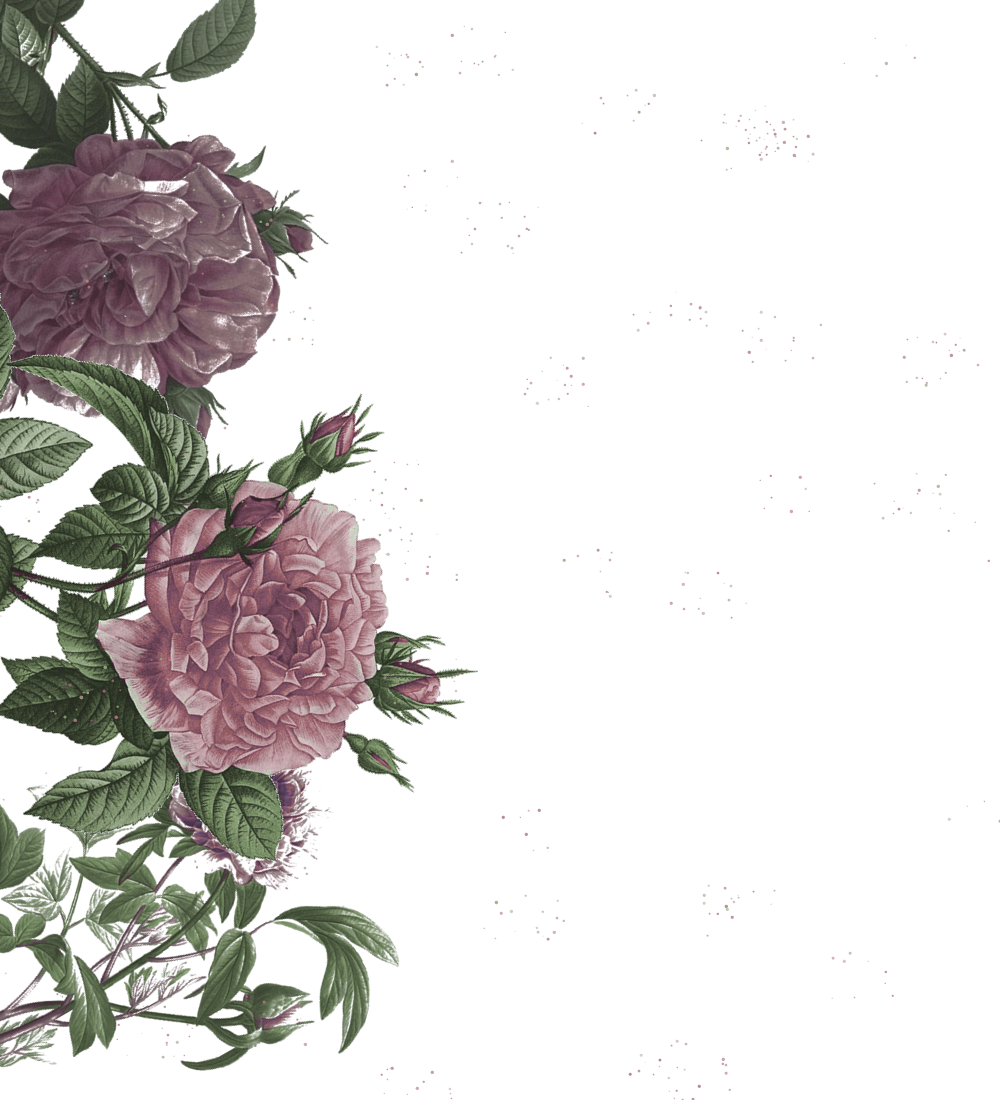
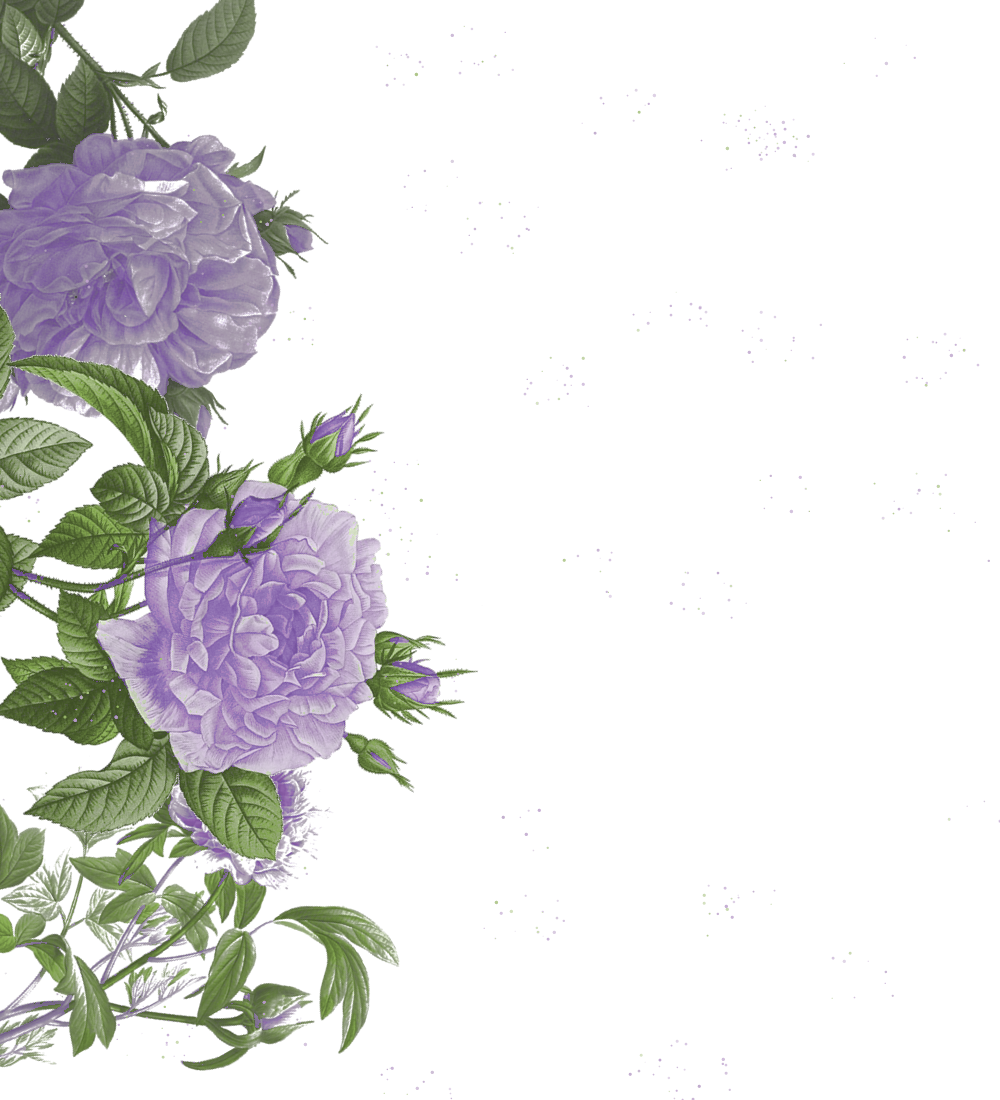
Paleta gamer girly (lima e lilas neon), flores so na capa e cordao de jiboia com fio de fada

Changed region(s): [[0.0, 0.0618, 0.465, 0.9891], [0.0, 0.0, 0.062, 0.0618], [0.0, 0.7418, 0.031, 0.8036]]

diff --git a/index.html b/index.html
@@ -19,24 +19,26 @@
        rosa milk, verde sálvia e rosa neon
        ========================================================== */
     :root {
-      /* Paleta: pink elétrico, lilás envelhecido, verde botânico, branco e preto. Fundo todo branco. */
-      --fundo: #f6f3f1;            /* branco quente (fundo da página) */
-      --branco: #f6f3f1;
+      /* Paleta gamer girly: branco, verde lima pastel aceso, lilás neon e preto */
+      --fundo: #f8f7fb;            /* branco levemente lilás */
+      --branco: #f8f7fb;
       --fundo-2: rgba(255, 255, 255, .6);
       --superficie: #ffffff;       /* cards */
-      --superficie-2: #efe9ec;
-      --texto: #141214;            /* preto: texto principal */
-      --texto-suave: #5a525d;      /* texto de apoio */
-      --escuro: #141214;
-      --milk: #6f5a78;             /* lilás envelhecido (tom escuro, legível no branco) */
-      --milk-forte: #a68eae;
-      --neon: #ff2d95;             /* pink elétrico: botões, brilho e detalhes */
-      --neon-texto: #d1006b;       /* pink elétrico para TEXTO (contraste aprovado no branco) */
-      --brilho: 0 0 10px rgba(255, 45, 149, .35), 0 0 24px rgba(255, 45, 149, .22);
-      --salvia: #4b6844;           /* verde botânico para textos */
-      --salvia-linha: #8aa37f;     /* verde botânico para linhas */
-      --salvia-fundo: rgba(95, 124, 86, .1);
-      --borda: rgba(20, 18, 20, .12);
+      --superficie-2: #f0ebf8;
+      --texto: #17141c;            /* preto: texto principal */
+      --texto-suave: #5b5566;      /* texto de apoio */
+      --escuro: #17141c;
+      --milk: #6a35c9;             /* lilás (tom escuro, legível no branco): números e destaques */
+      --milk-forte: #b57cff;
+      --neon: #b57cff;             /* lilás neon: botões, brilho e detalhes */
+      --neon-texto: #7d3ddb;       /* lilás neon para TEXTO no branco */
+      --brilho: 0 0 10px rgba(181, 124, 255, .6), 0 0 26px rgba(181, 124, 255, .38);
+      --salvia: #4e7a1c;           /* verde lima escuro, legível no branco */
+      --salvia-linha: #b8e86a;     /* verde lima aceso: linhas */
+      --salvia-fundo: rgba(198, 243, 107, .2);
+      --verde-neon: #c6f36b;       /* verde lima das luzes */
+      --luz: #ffd76a;              /* luzinhas do fio de fada */
+      --borda: rgba(23, 20, 28, .1);
       --titulo: "Anton", "Impact", "Arial Narrow", sans-serif;
       --corpo: "Archivo", system-ui, -apple-system, "Segoe UI", sans-serif;
       --largura: 1240px;
@@ -63,7 +65,7 @@
     p { margin: 0; }
     ul { margin: 0; padding: 0; list-style: none; }
     button, input, textarea { font: inherit; color: inherit; }
-    ::selection { background: #f6c6dc; color: var(--escuro); }
+    ::selection { background: #e3d2ff; color: var(--escuro); }
 
     :focus-visible { outline: 2px solid var(--neon-texto); outline-offset: 3px; }
 
@@ -92,26 +94,13 @@
     .capa .selo-micro { color: var(--neon-texto); font-weight: 700; text-shadow: var(--brilho); }
 
 
-    /* Guirlandas: uma pintura contínua de flores que desce pelas laterais da página inteira,
-       sem começo nem fim (a imagem foi montada para se repetir sem emenda) */
-    .guirlanda { position: absolute; inset: 0; z-index: -1; pointer-events: none; overflow: hidden; }
-    .guirlanda span {
-      position: absolute; top: 0; bottom: 0; width: min(30vw, 470px);
-      background-repeat: repeat-y; background-size: 100% auto; opacity: .3;
-    }
-    .guirlanda .lado-esq {
-      left: -8px; background-image: url("decoracao/guirlanda-esq.png");
-      -webkit-mask-image: linear-gradient(to right, #000 45%, transparent); mask-image: linear-gradient(to right, #000 45%, transparent);
-      animation: balanco-esq 10s ease-in-out infinite;
-    }
-    .guirlanda .lado-dir {
-      right: -8px; background-image: url("decoracao/guirlanda-dir.png"); background-position: right 0 top 600px;
-      -webkit-mask-image: linear-gradient(to left, #000 45%, transparent); mask-image: linear-gradient(to left, #000 45%, transparent);
-      animation: balanco-dir 12s ease-in-out -4s infinite;
-    }
-    @keyframes balanco-esq { 0%, 100% { transform: translateX(0); } 50% { transform: translateX(7px); } }
-    @keyframes balanco-dir { 0%, 100% { transform: translateX(0); } 50% { transform: translateX(-7px); } }
-
+    /* Cordão do lado direito: fio fininho com folhinhas de jiboia e luzinhas de fada piscando */
+    .cordao { position: absolute; top: 0; right: 2px; width: 64px; z-index: 5; pointer-events: none; }
+    .cordao svg { display: block; overflow: visible; }
+    .cordao .folha-g { transform-box: fill-box; transform-origin: 0% 50%; animation: folha-balanca 7s ease-in-out infinite; }
+    .cordao .luz { animation: piscar 3s ease-in-out infinite; }
+    @keyframes folha-balanca { 0%, 100% { transform: rotate(0deg); } 50% { transform: rotate(5deg); } }
+    @keyframes piscar { 0%, 100% { opacity: .3; } 45% { opacity: 1; } 60% { opacity: .85; } }
     /* A brisa: balanço lento e bem pequeno, ancorado no canto de onde as flores "nascem" */    @keyframes brisa {
       0%, 100% { transform: rotate(0deg) translate(0, 0); }
       30% { transform: rotate(.9deg) translate(2px, 1px); }
@@ -125,7 +114,6 @@
 
     @media (max-width: 820px) {
       .capa-buque { width: 96vw; opacity: .32; }
-      .guirlanda span { width: 38vw; opacity: .2; }
     }
 
     .pular {
@@ -167,7 +155,7 @@
     .btn-vermelho { background: var(--neon); border-color: var(--neon); color: var(--escuro); }
     .btn-vermelho:hover, .btn-vermelho:focus-visible {
       background: var(--btn-hover-bg, #141214); border-color: var(--btn-hover-bg, #141214); color: var(--btn-hover-cor, #fff);
-      box-shadow: 0 0 30px rgba(255, 45, 149, .7);
+      box-shadow: 0 0 30px rgba(181, 124, 255, .7);
     }
     .btn-cinza { background: transparent; color: var(--texto); border-color: var(--texto); }
     .btn-cinza:hover, .btn-cinza:focus-visible { color: var(--neon-texto); border-color: var(--neon); text-shadow: var(--brilho); }
@@ -182,13 +170,14 @@
     /* Barra superior em verde botânico */
     .topo {
       position: fixed; inset: 0 0 auto 0; z-index: 100; height: var(--header-h);
-      --texto: #ffffff; --neon-texto: #ffd0e6; --milk: #f1e4f5;
-      --brilho: 0 0 10px rgba(255, 45, 149, .9), 0 0 24px rgba(255, 45, 149, .55);
-      background: rgba(75, 104, 68, .94);
+      --texto: #17141c; --neon-texto: #6a2fc4; --milk: #6a2fc4;
+      --brilho: 0 0 10px rgba(181, 124, 255, .9), 0 0 24px rgba(181, 124, 255, .55);
+      background: linear-gradient(90deg, rgba(222, 248, 172, .95), rgba(205, 244, 140, .95));
+      box-shadow: 0 4px 30px rgba(198, 243, 107, .45);
       backdrop-filter: blur(12px); -webkit-backdrop-filter: blur(12px);
       transition: background-color .3s ease, box-shadow .3s ease;
     }
-    .topo.rolado { background-color: rgba(64, 90, 58, .98); box-shadow: 0 6px 24px rgba(20, 18, 20, .18); }
+    .topo.rolado { box-shadow: 0 6px 34px rgba(198, 243, 107, .6), 0 1px 0 rgba(23, 20, 28, .08); }
     .topo .container { height: 100%; display: flex; align-items: center; justify-content: space-between; gap: 16px; }
     .logo {
       font-family: var(--titulo); font-size: 1.55rem; font-weight: 500; letter-spacing: .06em;
@@ -219,15 +208,18 @@
     /* Capa: preto translúcido, com cores próprias para o texto claro */
     .capa {
       --texto: #f6f3f1; --texto-suave: #d6ced3; --borda: rgba(255, 255, 255, .16);
-      --milk: #d2bfd8; --neon-texto: #ff4fa3; --salvia: #a9bf9c;
-      --brilho: 0 0 10px rgba(255, 45, 149, .75), 0 0 28px rgba(255, 45, 149, .5);
+      --milk: #d9c2ff; --neon-texto: #d2a6ff; --salvia: #c6f36b;
+      --brilho: 0 0 10px rgba(181, 124, 255, .75), 0 0 28px rgba(181, 124, 255, .5);
       --btn-hover-bg: #ffffff; --btn-hover-cor: #141214;
       --lilas-neon: #c77dff; --lilas-brilho: 0 0 8px rgba(199, 125, 255, .9), 0 0 22px rgba(199, 125, 255, .6), 0 0 44px rgba(199, 125, 255, .35);
       color: var(--texto);
       position: relative; min-height: 100vh; min-height: 100svh;
       display: flex; flex-direction: column; justify-content: flex-end;
       padding-top: calc(var(--header-h) + 36px);
-      background: rgba(14, 12, 14, .86);
+      background:
+        radial-gradient(ellipse 55% 60% at 80% 30%, rgba(181, 124, 255, .26), transparent 70%),
+        radial-gradient(ellipse 45% 45% at 6% 100%, rgba(198, 243, 107, .14), transparent 70%),
+        rgba(20, 16, 26, .93);
       overflow: hidden;
     }
     .capa-grade { display: block; padding-bottom: clamp(40px, 6vw, 72px); }
@@ -301,8 +293,8 @@
       position: absolute; left: 0; top: 0; bottom: 0; z-index: 2;
       display: flex; align-items: center; padding: 0 26px 0 var(--gutter);
       background: linear-gradient(90deg, #0b0a0d 72%, transparent);
-      font-size: .68rem; font-weight: 700; letter-spacing: .26em; text-transform: uppercase; color: var(--neon-texto);
-      text-shadow: var(--brilho);
+      font-size: .68rem; font-weight: 700; letter-spacing: .26em; text-transform: uppercase; color: var(--verde-neon);
+      text-shadow: 0 0 8px rgba(198, 243, 107, .9), 0 0 22px rgba(198, 243, 107, .5);
     }
     .faixa-trilho { display: flex; width: max-content; animation: deslizar 60s linear infinite; }
     .faixa-marcas:hover .faixa-trilho { animation-play-state: paused; }
@@ -313,8 +305,9 @@
       color: var(--lilas-neon); text-shadow: var(--lilas-brilho);
       display: flex; align-items: center; gap: 26px; transition: color .3s ease, text-shadow .3s ease;
     }
-    .faixa-trilho li:hover { color: #ffffff; text-shadow: 0 0 10px rgba(255, 45, 149, 1), 0 0 30px rgba(255, 45, 149, .7); }
-    .faixa-trilho li::after { content: ""; width: 6px; height: 6px; background: var(--neon); box-shadow: 0 0 10px var(--neon); transform: rotate(45deg); }    @keyframes deslizar { to { transform: translateX(-50%); } }
+    .faixa-trilho li:hover { color: #ffffff; text-shadow: 0 0 10px rgba(181, 124, 255, 1), 0 0 30px rgba(181, 124, 255, .8), 0 0 50px rgba(181, 124, 255, .5); }
+    .faixa-trilho li::after { content: ""; width: 6px; height: 6px; background: var(--verde-neon); box-shadow: 0 0 10px var(--verde-neon); transform: rotate(45deg); }
+    @keyframes deslizar { to { transform: translateX(-50%); } }
 
     /* ==========================================================
        2. SOBRE MIM
@@ -325,7 +318,7 @@
       --texto: #141214; --texto-suave: #5a525d; --borda: rgba(20, 18, 20, .12);
       --superficie: #ffffff; --superficie-2: #efe9ec;
       --milk: #6f5a78; --milk-forte: #8a7593;
-      --neon-texto: #d1006b; --brilho: 0 0 10px rgba(255, 45, 149, .35), 0 0 22px rgba(255, 45, 149, .2);
+      --neon-texto: #7d3ddb; --brilho: 0 0 10px rgba(181, 124, 255, .6), 0 0 26px rgba(181, 124, 255, .38);
       --salvia: #4b6844; --salvia-linha: #8aa37f; --salvia-fundo: rgba(95, 124, 86, .1);
       color: var(--texto);
     }
@@ -356,7 +349,7 @@
     }
     .polaroid:hover .polaroid-foto {
       outline-color: var(--neon); outline-offset: 20px;
-      box-shadow: 0 30px 60px rgba(20, 18, 20, .22), 0 0 34px rgba(255, 45, 149, .25);
+      box-shadow: 0 30px 60px rgba(20, 18, 20, .22), 0 0 34px rgba(181, 124, 255, .25);
     }
     .polaroid.mexendo .polaroid-foto { transition: transform .12s linear, outline-offset .6s ease, outline-color .6s ease, box-shadow .6s ease; }
     .polaroid:hover .polaroid-foto .midia { transform: scale(1.07); filter: saturate(1.08) contrast(1.03); }
@@ -397,7 +390,7 @@
     }
     .destaque:hover, .destaque:focus-visible {
       transform: translateY(-6px); border-color: var(--neon);
-      box-shadow: 0 0 0 1px var(--neon), 0 24px 50px rgba(255, 45, 149, .22);
+      box-shadow: 0 0 0 1px var(--neon), 0 24px 50px rgba(181, 124, 255, .22);
     }
     .destaque-capa { aspect-ratio: 9 / 16; position: relative; overflow: hidden; }
     .destaque-capa .midia { transition: transform .7s ease; }
@@ -422,7 +415,7 @@
     .play svg { width: 26px; height: 26px; margin-left: 4px; fill: var(--escuro); transition: fill .3s ease; }
     .destaque:hover .play, .destaque:focus-visible .play,
     .trabalho:hover .play-mini, .trabalho:focus-visible .play-mini {
-      background: var(--neon); border-color: var(--neon); transform: scale(1.08); box-shadow: 0 0 26px rgba(255, 45, 149, .7);
+      background: var(--neon); border-color: var(--neon); transform: scale(1.08); box-shadow: 0 0 26px rgba(181, 124, 255, .7);
     }
     .destaque:hover .play svg, .destaque:focus-visible .play svg,
     .trabalho:hover .play-mini svg, .trabalho:focus-visible .play-mini svg { fill: #fff; }
@@ -454,7 +447,7 @@
     }
     .filtro:hover { border-color: var(--neon); color: var(--neon-texto); text-shadow: var(--brilho); }
     .filtro[aria-pressed="true"] { background: var(--texto); border-color: var(--texto); color: #fff; text-shadow: none; }
-    .filtro[aria-pressed="true"]:hover { background: var(--neon); border-color: var(--neon); color: #fff; box-shadow: 0 0 20px rgba(255,45,149,.5); }
+    .filtro[aria-pressed="true"]:hover { background: var(--neon); border-color: var(--neon); color: #fff; box-shadow: 0 0 20px rgba(181,124,255,.5); }
 
     .filtro-tts { display: inline-flex; align-items: center; gap: 7px; text-decoration: none; border-color: var(--milk); color: var(--milk); }
     .filtro-tts svg { width: 14px; height: 14px; fill: currentColor; }
@@ -483,7 +476,7 @@
       background: var(--superficie); color: var(--texto); cursor: pointer; display: grid; place-items: center;
       transition: background-color .3s ease, border-color .3s ease, color .3s ease, box-shadow .3s ease;
     }
-    .seta:hover { border-color: var(--neon); color: var(--neon-texto); box-shadow: 0 0 16px rgba(255,45,149,.45); }
+    .seta:hover { border-color: var(--neon); color: var(--neon-texto); box-shadow: 0 0 16px rgba(181,124,255,.45); }
     .seta svg { width: 18px; height: 18px; }
     .trilho {
       display: grid; grid-auto-flow: column; grid-auto-columns: clamp(176px, 22vw, 272px);
@@ -507,7 +500,7 @@
     }
     .trabalho:hover, .trabalho:focus-visible {
       transform: scale(1.09); z-index: 3;
-      box-shadow: 0 0 0 2px var(--neon), 0 18px 40px rgba(255, 45, 149, .32);
+      box-shadow: 0 0 0 2px var(--neon), 0 18px 40px rgba(181, 124, 255, .32);
     }
     .trabalho .midia { position: absolute; inset: 0; }
     .trabalho img.midia { object-position: 50% 30%; }
@@ -563,7 +556,7 @@
       background: transparent; color: var(--texto); font-size: 1.6rem; line-height: 1;
       transition: color .3s ease, border-color .3s ease, box-shadow .3s ease;
     }
-    .fechar-video:hover { color: var(--neon-texto); border-color: var(--neon); box-shadow: 0 0 16px rgba(255,45,149,.45); }
+    .fechar-video:hover { color: var(--neon-texto); border-color: var(--neon); box-shadow: 0 0 16px rgba(181,124,255,.45); }
     /* Player: a altura acompanha a tela, então o vídeo aparece inteiro sem rolar */
     .moldura-video {
       height: min(calc(100vh - 130px), 640px); aspect-ratio: 9 / 16; width: auto;
@@ -603,7 +596,7 @@
       display: block; font-family: var(--titulo); font-weight: 500; color: var(--milk);
       font-size: clamp(2.6rem, 5.5vw, 4.2rem); line-height: 1; transition: color .3s ease, text-shadow .3s ease;
     }
-    .contador:hover { transform: translateY(-8px) scale(1.06); background: var(--superficie); box-shadow: 0 22px 50px rgba(255, 45, 149, .2), 0 0 0 1px var(--neon); z-index: 2; }
+    .contador:hover { transform: translateY(-8px) scale(1.06); background: var(--superficie); box-shadow: 0 22px 50px rgba(181, 124, 255, .2), 0 0 0 1px var(--neon); z-index: 2; }
     .contador strong { transition: color .3s ease, text-shadow .3s ease, transform .4s cubic-bezier(.2, .7, .2, 1); }
     .contador:hover strong { color: var(--neon-texto); text-shadow: var(--brilho); transform: scale(1.12); }
     .contador span { display: block; margin-top: 12px; color: var(--texto-suave); font-weight: 500; font-size: .74rem; letter-spacing: .14em; text-transform: uppercase; }
@@ -611,7 +604,7 @@
     .subtitulo-bloco::after { content: ""; flex: 1; height: 1px; background: var(--borda); }
     .resultados { display: grid; grid-template-columns: repeat(3, minmax(0, 1fr)); gap: 18px; }
     .resultado { padding: 28px; background: var(--superficie); border-top: 2px solid var(--salvia-linha); transition: box-shadow .4s ease, border-color .4s ease, transform .4s cubic-bezier(.2, .7, .2, 1); }
-    .resultado:hover { border-color: var(--neon); box-shadow: 0 22px 50px rgba(255, 45, 149, .22); transform: translateY(-8px) scale(1.03); }
+    .resultado:hover { border-color: var(--neon); box-shadow: 0 22px 50px rgba(181, 124, 255, .22); transform: translateY(-8px) scale(1.03); }
     .resultado .nicho { font-size: .66rem; font-weight: 600; letter-spacing: .22em; text-transform: uppercase; color: var(--salvia); }
     .resultado strong { display: block; font-family: var(--titulo); font-weight: 500; font-size: 3rem; line-height: 1.1; margin-top: 10px; color: var(--milk); transition: color .3s ease, text-shadow .3s ease; }
     .resultado:hover strong { color: var(--neon-texto); text-shadow: var(--brilho); }
@@ -623,7 +616,7 @@
       padding: 30px 26px; display: flex; flex-direction: column; gap: 18px;
       transition: border-color .3s ease, box-shadow .3s ease;
     }
-    .depoimento:hover { border-color: var(--neon); box-shadow: 0 16px 40px rgba(255, 45, 149, .16); }
+    .depoimento:hover { border-color: var(--neon); box-shadow: 0 16px 40px rgba(181, 124, 255, .16); }
     .depoimento .aspas { font-family: var(--titulo); font-size: 4.4rem; line-height: .6; color: var(--salvia-linha); height: 28px; }
     .estrelas { color: var(--neon-texto); letter-spacing: 3px; font-size: .95rem; }
     .depoimento blockquote { margin: 0; color: var(--texto); font-size: 1.02rem; }
@@ -652,7 +645,7 @@
     }
     .campo textarea { min-height: 140px; resize: vertical; }
     .campo input::placeholder, .campo textarea::placeholder { color: #7d757f; }
-    .campo input:focus, .campo textarea:focus { outline: none; border-color: var(--neon); box-shadow: 0 0 0 3px rgba(255,45,149,.3), 0 0 18px rgba(255,45,149,.25); }
+    .campo input:focus, .campo textarea:focus { outline: none; border-color: var(--neon); box-shadow: 0 0 0 3px rgba(181,124,255,.3), 0 0 18px rgba(181,124,255,.25); }
     .form .btn { justify-self: start; }
     .aviso-form { display: none; background: #eaf7ee; border: 1px solid #6cc08a; color: #135c2e; padding: 12px 14px; font-weight: 600; }
     .aviso-form.mostrar { display: block; }
@@ -663,7 +656,7 @@
       background: var(--fundo); border: 1px solid var(--borda); padding: 14px 16px;
       transition: border-color .3s ease, transform .3s ease, box-shadow .3s ease; min-width: 0;
     }
-    .botao-contato:hover { border-color: var(--neon); transform: translateX(4px); box-shadow: 0 0 22px rgba(255,45,149,.3); }
+    .botao-contato:hover { border-color: var(--neon); transform: translateX(4px); box-shadow: 0 0 22px rgba(181,124,255,.3); }
     .botao-contato:hover b { color: var(--neon-texto); text-shadow: var(--brilho); }
     .botao-contato .icone { width: 44px; height: 44px; background: var(--texto); display: grid; place-items: center; flex-shrink: 0; transition: background-color .3s ease; }
     .botao-contato:hover .icone { background: var(--neon); }
@@ -713,7 +706,7 @@
       .menu {
         position: fixed; top: var(--header-h); left: 0; right: 0;
         flex-direction: column; gap: 0; padding: 8px var(--gutter) 24px;
-        background: rgba(64, 90, 58, .99); border-bottom: 1px solid rgba(255, 255, 255, .15);
+        background: rgba(226, 249, 182, .99); border-bottom: 1px solid rgba(23, 20, 28, .1);
         transform: translateY(-8px); opacity: 0; visibility: hidden;
         transition: opacity .25s ease, transform .25s ease, visibility .25s;
       }
@@ -760,8 +753,8 @@
 </style>
 </head>
 <body>
-  <!-- GUIRLANDAS: pintura contínua de flores vintage descendo pelas laterais da página inteira -->
-  <div class="guirlanda" aria-hidden="true"><span class="lado-esq"></span><span class="lado-dir"></span></div>
+  <!-- CORDÃO: fio com folhinhas de jiboia e luzinhas de fada, desenhado pelo JavaScript no lado direito -->
+  <div class="cordao" id="cordao" aria-hidden="true"></div>
   <a class="pular" href="#conteudo">Pular para o conteúdo</a>
 
 
@@ -1100,7 +1093,7 @@
         itens: [
           { titulo: "Demonstração com carrinho", formato: "Vídeo TikTok Shop", descricao: "Mostro o produto funcionando e levo o público direto para o carrinho.", video: "", imagem: "", alt: "Exemplo de vídeo de demonstração para TikTok Shop", gradiente: "linear-gradient(165deg,#3b2a31,#a8546f)" },
           { titulo: "Antes e depois que vende", formato: "Vídeo TikTok Shop", descricao: "Resultado real na tela em poucos segundos, com chamada para compra.", video: "", imagem: "", alt: "Exemplo de vídeo de antes e depois para TikTok Shop", gradiente: "linear-gradient(200deg,#2c3a2c,#7f9a7b)" },
-          { titulo: "Unboxing com oferta", formato: "Vídeo TikTok Shop", descricao: "Primeira impressão sincera destacando preço, cupom e frete.", video: "", imagem: "", alt: "Exemplo de vídeo de unboxing para TikTok Shop", gradiente: "linear-gradient(140deg,#4a2234,#ff2d95)" }
+          { titulo: "Unboxing com oferta", formato: "Vídeo TikTok Shop", descricao: "Primeira impressão sincera destacando preço, cupom e frete.", video: "", imagem: "", alt: "Exemplo de vídeo de unboxing para TikTok Shop", gradiente: "linear-gradient(140deg,#4a2234,#b57cff)" }
         ]
       },
 
@@ -1509,7 +1502,7 @@
       const aviso = $("#avisoForm");
       const invalido = [...form.elements].find((el) => el.willValidate && !el.checkValidity());
       if (invalido) {
-        aviso.style.cssText = "background:#fff0f6;border-color:#d1006b;color:#8a0047";
+        aviso.style.cssText = "background:#f4ecff;border-color:#7d3ddb;color:#4d1f8f";
         aviso.textContent = invalido.type === "email" && invalido.value
           ? "Confira o e-mail digitado, parece que falta alguma coisa."
           : "Preencha nome, e-mail e mensagem para eu poder te responder.";
@@ -1587,6 +1580,52 @@
       });
     }, { threshold: 0.12, rootMargin: "0px 0px -40px 0px" });
     document.querySelectorAll(".revelar").forEach((el) => observadorRevelar.observe(el));
+
+    /* ---------- Cordão de jiboia com fio de fada (lado direito, da capa ao rodapé) ---------- */
+    let alturaCordao = 0;
+    function desenharCordao() {
+      const el = $("#cordao");
+      if (!el) return;
+      const H = document.documentElement.scrollHeight;
+      if (Math.abs(H - alturaCordao) < 40) return;
+      alturaCordao = H;
+      const k = window.innerWidth < 600 ? 0.62 : 1;            // no celular fica mais fininho
+      const W = 64 * k;
+      const fioX = (y) => W * 0.55 + Math.sin(y / 140) * 10 * k + Math.sin(y / 53) * 3 * k;
+      const pontos = [];
+      for (let y = 0; y <= H; y += 8) pontos.push(`${fioX(y).toFixed(1)} ${y}`);
+      // folhinhas de jiboia: coração com a ponta fina, em tons de verde lima
+      const cores = ["#8cc05a", "#a6d46e", "#bfe48c", "#d6efab", "#79ad4c"];
+      const folha = "M0 0 C2 -6 10 -8 14 -4 C16 -2 17 0 19 1 C16 3 13 7 8 7 C3 6 1 4 0 0 Z";
+      let folhas = "", lado = 1, i = 0;
+      for (let y = 26; y < H; y += 40 + ((i * 37) % 24)) {
+        i++; lado *= -1;
+        const x = fioX(y), tam = (0.6 + ((i * 53) % 45) / 100) * k;
+        const ang = lado > 0 ? -25 + ((i * 17) % 30) : 205 - ((i * 13) % 30);
+        folhas += `<g class="folha-g" style="animation-delay:-${(i * 0.9) % 7}s">
+          <path d="${folha}" transform="translate(${x.toFixed(1)} ${y}) rotate(${ang}) scale(${tam.toFixed(2)})" fill="${cores[i % cores.length]}" fill-opacity=".92"/>
+          <path d="M0 0 L17 .6" transform="translate(${x.toFixed(1)} ${y}) rotate(${ang}) scale(${tam.toFixed(2)})" stroke="#5f8a3a" stroke-width=".6" fill="none" opacity=".55"/></g>`;
+      }
+      // luzinhas de fada amarelas, cada uma piscando no seu ritmo
+      let luzes = "", j = 0;
+      for (let y = 14; y < H; y += 32) {
+        j++;
+        const x = fioX(y) + (j % 2 ? 2 : -2) * k;
+        luzes += `<g class="luz" style="animation-delay:-${((j * 0.37) % 3).toFixed(2)}s;animation-duration:${(2.2 + (j % 5) * 0.55).toFixed(2)}s">
+          <circle cx="${x.toFixed(1)}" cy="${y}" r="${7 * k}" fill="url(#halo-luz)"/><circle cx="${x.toFixed(1)}" cy="${y}" r="${1.7 * k}" fill="#fff6cc"/></g>`;
+      }
+      el.style.height = `${H}px`;
+      el.innerHTML = `<svg width="${W}" height="${H}" viewBox="0 0 ${W} ${H}">
+        <defs><radialGradient id="halo-luz"><stop offset="0" stop-color="#ffd76a" stop-opacity=".95"/><stop offset=".45" stop-color="#ffd76a" stop-opacity=".35"/><stop offset="1" stop-color="#ffd76a" stop-opacity="0"/></radialGradient></defs>
+        <path d="M${pontos.join(" L")}" fill="none" stroke="#b8a57c" stroke-width="${0.9 * k}" opacity=".75"/>
+        ${folhas}${luzes}</svg>`;
+      el.style.width = `${W}px`;
+    }
+    desenharCordao();
+    window.addEventListener("load", desenharCordao);
+    let esperaCordao;
+    window.addEventListener("resize", () => { clearTimeout(esperaCordao); esperaCordao = setTimeout(() => { alturaCordao = 0; desenharCordao(); }, 250); });
+    if ("ResizeObserver" in window) new ResizeObserver(() => desenharCordao()).observe(document.body);
   </script>
 </body>
 </html>
